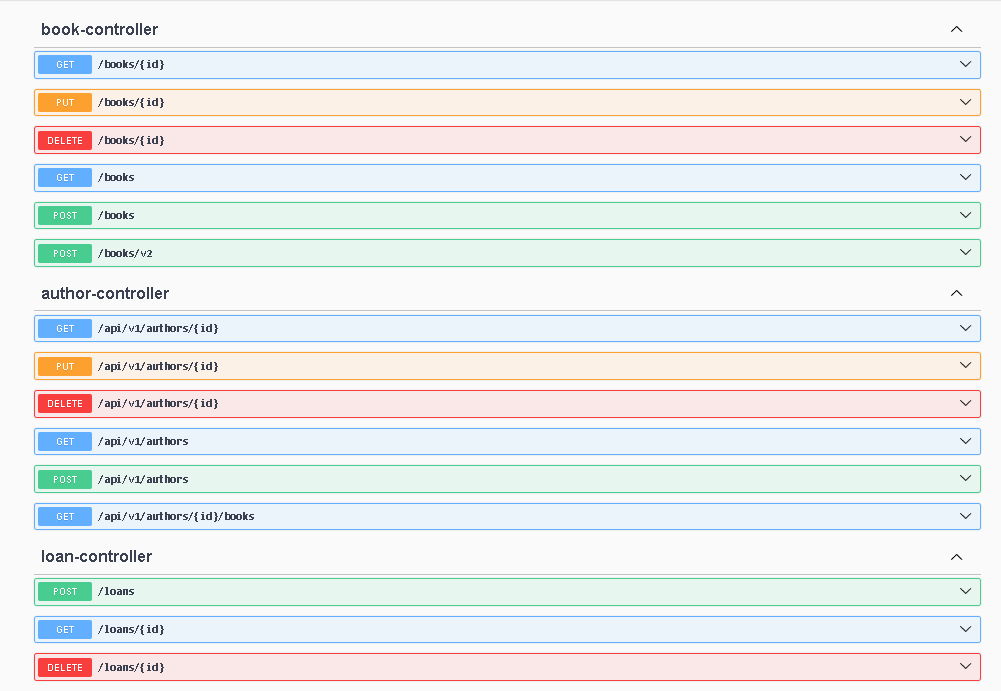
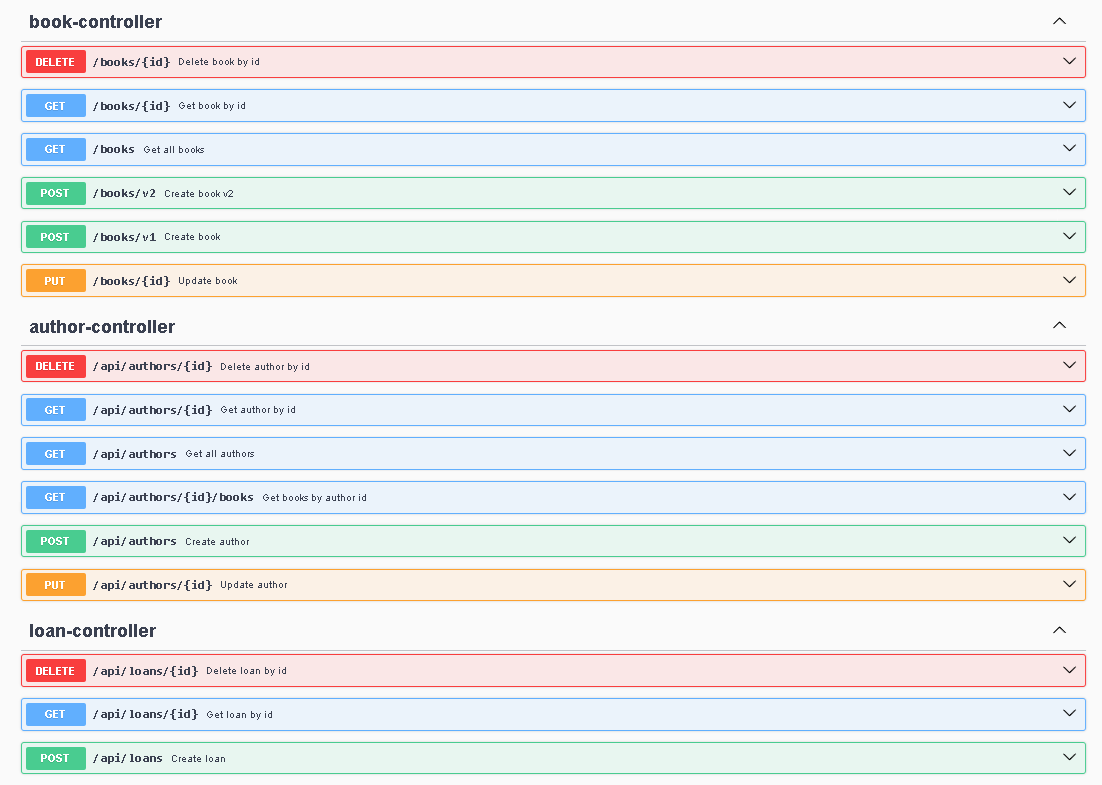
Implementerar dataseeder för att kunna göra grund prestand mätning. Mätningar med JMeter är nu implementerade i Readme.
Fixar till controllers RequestMapping.

Changed region(s): [[0.0, 0.0, 0.991, 1.0]]

diff --git a/src/main/java/com/example/bibliotekbackenden/DataSeeder.java b/src/main/java/com/example/bibliotekbackenden/DataSeeder.java
@@ -1,0 +1,50 @@
+package com.example.bibliotekbackenden;
+
+import org.springframework.boot.CommandLineRunner;
+import org.springframework.stereotype.Component;
+
+import com.example.bibliotekbackenden.Entity.Author;
+import com.example.bibliotekbackenden.Entity.Book;
+import com.example.bibliotekbackenden.Repository.AuthorRepository;
+import com.example.bibliotekbackenden.Repository.BookRepository;
+
+@Component
+public class DataSeeder implements CommandLineRunner {
+    AuthorRepository authorRepository;
+    BookRepository bookRepository;
+
+    public DataSeeder(AuthorRepository authorRepository, BookRepository bookRepository) {
+        this.authorRepository = authorRepository;
+        this.bookRepository = bookRepository;
+    }
+
+    // You can add methods here to seed initial data into the database
+    public void seedData() {
+        if (authorRepository.findAll().size() > 0) {
+            return;
+        }
+
+        if (bookRepository.findAll().size() > 0) {
+            return;
+        }
+
+        for (int i = 0; i < 50000; i++) {
+            Author author = new Author();
+            author.setName("Author " + i);
+            authorRepository.save(author);
+
+            Book book = new Book();
+            book.setTitle("Book " + i);
+            book.setAuthorBook(author);
+            book.setIsbn("ISBN-" + i);
+            book.setPublishedYear(2000);
+            bookRepository.save(book);
+        }
+    }
+
+    // Implement CommandLineRunner to run the seedData method at startup
+    @Override
+    public void run(String... args) throws Exception {
+        seedData();
+    }
+}

diff --git a/src/main/java/com/example/bibliotekbackenden/Controller/LoanController.java b/src/main/java/com/example/bibliotekbackenden/Controller/LoanController.java
@@ -10,7 +10,7 @@ import io.swagger.v3.oas.annotations.Operation;
 import jakarta.validation.Valid;
 
 @RestController
-@RequestMapping("/loans")
+@RequestMapping("api/loans")
 public class LoanController {
     private final LoanService loanService;
 
@@ -38,18 +38,18 @@ public class LoanController {
     @GetMapping("/{id}")
     @Operation(summary = "Get loan by id")
     public LoanResponseDTO getLoanById(@PathVariable("id") Long id) {
-            Loan loan = loanService.getLoanById(id);
-            return new LoanResponseDTO(
-                    loan.getId(),
-                    loan.getBookId(),
-                    loan.getBookTitle(),
-                    loan.getLoanDate(),
-                    loan.getReturnDate());
+        Loan loan = loanService.getLoanById(id);
+        return new LoanResponseDTO(
+                loan.getId(),
+                loan.getBookId(),
+                loan.getBookTitle(),
+                loan.getLoanDate(),
+                loan.getReturnDate());
     }
 
     @DeleteMapping("/{id}")
     @Operation(summary = "Delete loan by id")
     public void deleteLoan(@PathVariable("id") Long id) {
-            loanService.deleteLoan(id);
+        loanService.deleteLoan(id);
     }
 }

diff --git a/src/main/java/com/example/bibliotekbackenden/Controller/BookController.java b/src/main/java/com/example/bibliotekbackenden/Controller/BookController.java
@@ -12,7 +12,7 @@ import io.swagger.v3.oas.annotations.Operation;
 import jakarta.validation.Valid;
 
 @RestController
-@RequestMapping("/books")
+@RequestMapping("api/books")
 public class BookController {
         private final BookService bookService;
 
@@ -23,7 +23,7 @@ public class BookController {
         /**
          * CRUD operations for Book entity.
          */
-        @PostMapping
+        @PostMapping("/v1")
         @ResponseStatus(HttpStatus.CREATED)
         @Operation(summary = "Create book")
         public BookResponseDTO createBook(@Valid @RequestBody BookCreateDTO dto) {
@@ -58,6 +58,9 @@ public class BookController {
         @GetMapping("/{id}")
         @Operation(summary = "Get book by id")
         public BookResponseDTO getBookById(@PathVariable("id") Long id) {
+                
+                //TODO: Add versioning to this method to return BookResponseDTOv2 
+                // if the book version is v2, otherwise return BookResponseDTO
                 Book book = bookService.getBookById(id);
 
                 return new BookResponseDTO(

diff --git a/src/main/java/com/example/bibliotekbackenden/Dto/Book/v2/BookResponseDTOv2.java b/src/main/java/com/example/bibliotekbackenden/Dto/Book/v2/BookResponseDTOv2.java
@@ -1,11 +1,11 @@
 package com.example.bibliotekbackenden.Dto.Book.v2;
 
 public record BookResponseDTOv2(
-                Long id,
-                String title,
-                String author,
-                String isbn,
-                Integer publishedYear,
-                boolean isAvailable,
-                String version) {
+        Long id,
+        String title,
+        String author,
+        String isbn,
+        Integer publishedYear,
+        boolean isAvailable,
+        String version) {
 }

diff --git a/src/main/java/com/example/bibliotekbackenden/Dto/Book/v1/BookResponseDTO.java b/src/main/java/com/example/bibliotekbackenden/Dto/Book/v1/BookResponseDTO.java
@@ -1,9 +1,9 @@
 package com.example.bibliotekbackenden.Dto.Book.v1;
 
 public record BookResponseDTO(
-                Long id,
-                String title,
-                String author,
-                String isbn,
-                Integer publishedYear) {
+        Long id,
+        String title,
+        String author,
+        String isbn,
+        Integer publishedYear) {
 }

diff --git a/src/main/java/com/example/bibliotekbackenden/ResponseTimeFilter.java b/src/main/java/com/example/bibliotekbackenden/ResponseTimeFilter.java
@@ -24,7 +24,7 @@ public class ResponseTimeFilter implements Filter {
         chain.doFilter(request, response);
         long duration = System.currentTimeMillis() - startTime;
         HttpServletRequest req = (HttpServletRequest) request;
-        
+
         logger.info("Request URL: {}, Duration: {} ms", req.getRequestURL(), duration);
-    }   
+    }
 }

diff --git a/src/main/java/com/example/bibliotekbackenden/Controller/AuthorController.java b/src/main/java/com/example/bibliotekbackenden/Controller/AuthorController.java
@@ -20,7 +20,7 @@ import io.swagger.v3.oas.annotations.Operation;
 import jakarta.validation.Valid;
 
 @RestController
-@RequestMapping("api/v1/authors")
+@RequestMapping("api/authors")
 public class AuthorController {
         private final AuthorService authorService;
 
